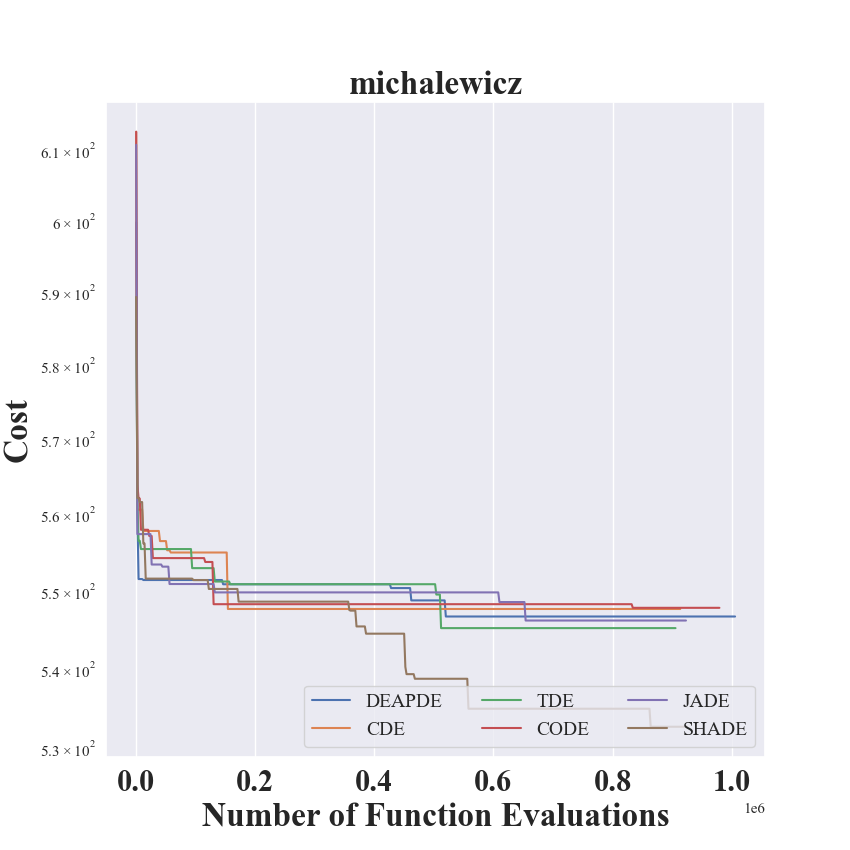
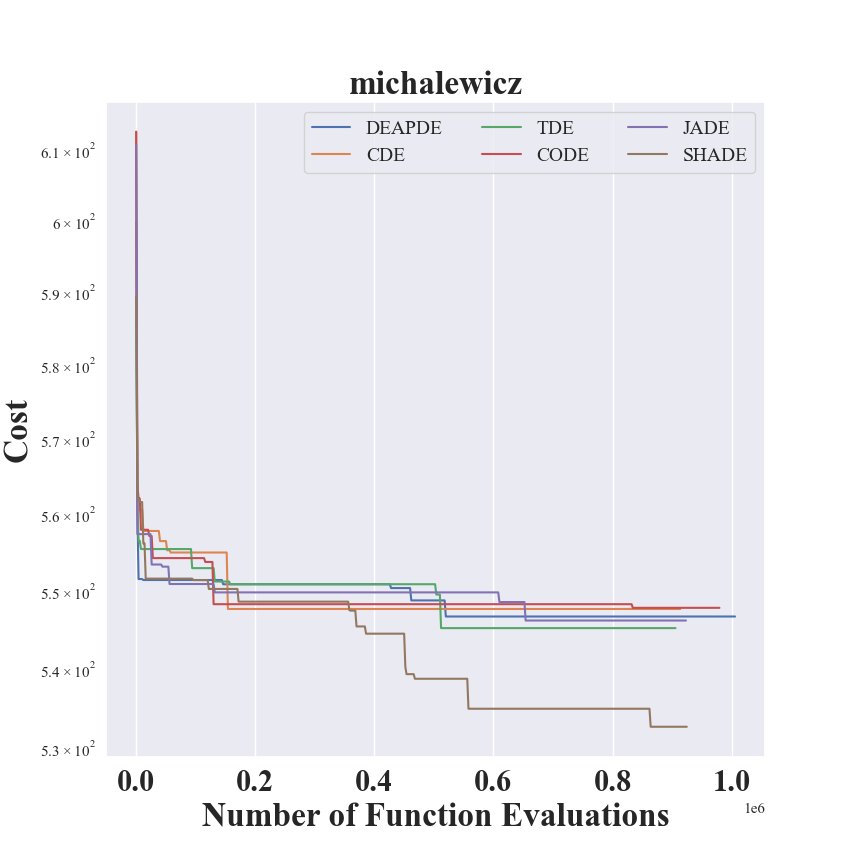
Update docs/pypop7_benchmarks_lso/single-core/compare_efficiency_de.py and docs/pypop7_benchmarks_lso/single-core/mo_compare_efficiency_fe_de.py

diff --git a/docs/pypop7_benchmarks_lso/single-core/mo_compare_efficiency_fe_de.py b/docs/pypop7_benchmarks_lso/single-core/mo_compare_efficiency_fe_de.py
@@ -74,7 +74,7 @@ if __name__ == '__main__':
         plt.title(f, fontsize=24, fontweight='bold')
         plt.xticks(fontsize=22, fontweight='bold')
         plt.yticks(fontsize=22, fontweight='bold')
-        plt.legend(loc=4, ncol=3, fontsize=14)
+        plt.legend(loc='best', ncol=3, fontsize=14)
         plt.rcParams['font.family'] = 'Times New Roman'
         plt.savefig('./figures/DEs-' + f + '-FEs.png', format='png')
         plt.show()

diff --git a/docs/pypop7_benchmarks_lso/single-core/compare_efficiency_de.py b/docs/pypop7_benchmarks_lso/single-core/compare_efficiency_de.py
@@ -69,7 +69,7 @@ if __name__ == '__main__':
         plt.title(f, fontsize=24, fontweight='bold')
         plt.xticks(fontsize=22, fontweight='bold')
         plt.yticks(fontsize=22, fontweight='bold')
-        plt.legend(loc=4, ncol=3, fontsize=14)
+        plt.legend(loc='best', ncol=3, fontsize=14)
         plt.rcParams['font.family'] = 'Times New Roman'
         plt.savefig('./figures/DEs-' + f + '.png', format='png')
         plt.show()
